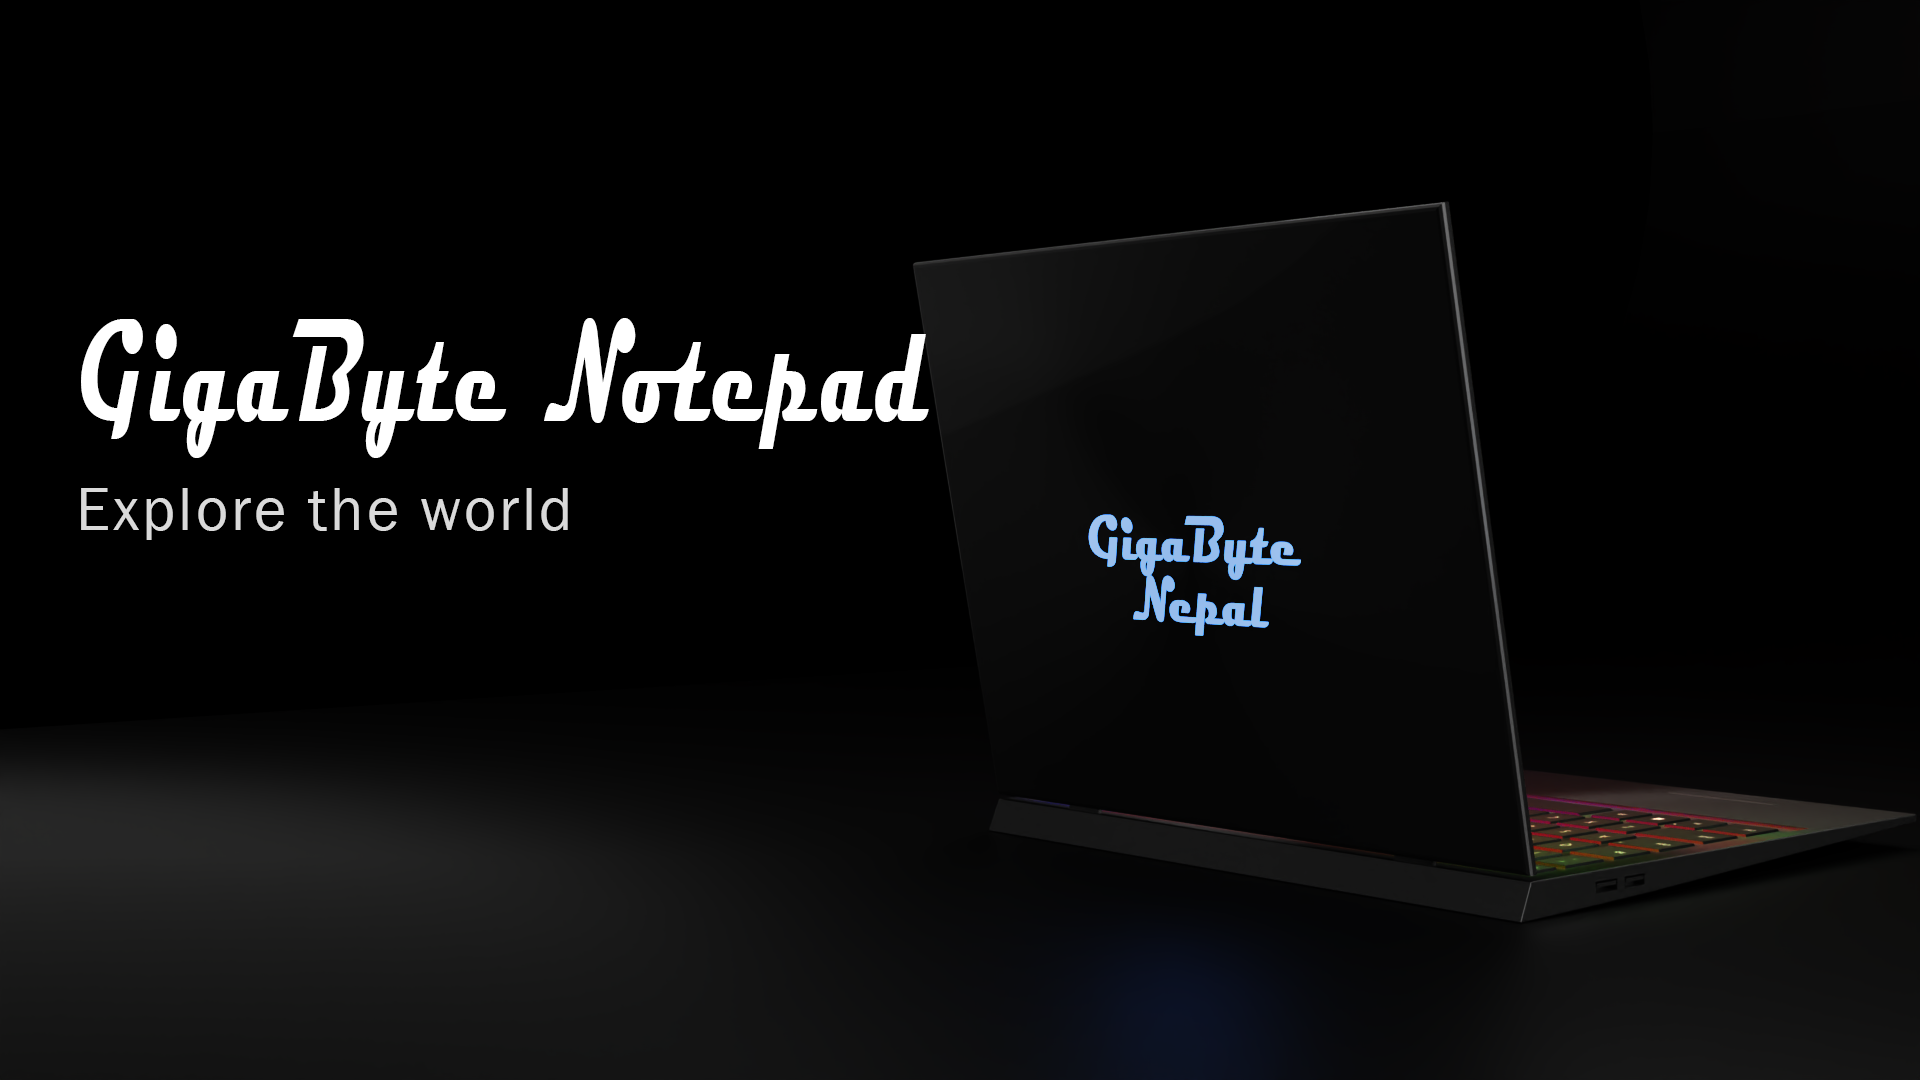
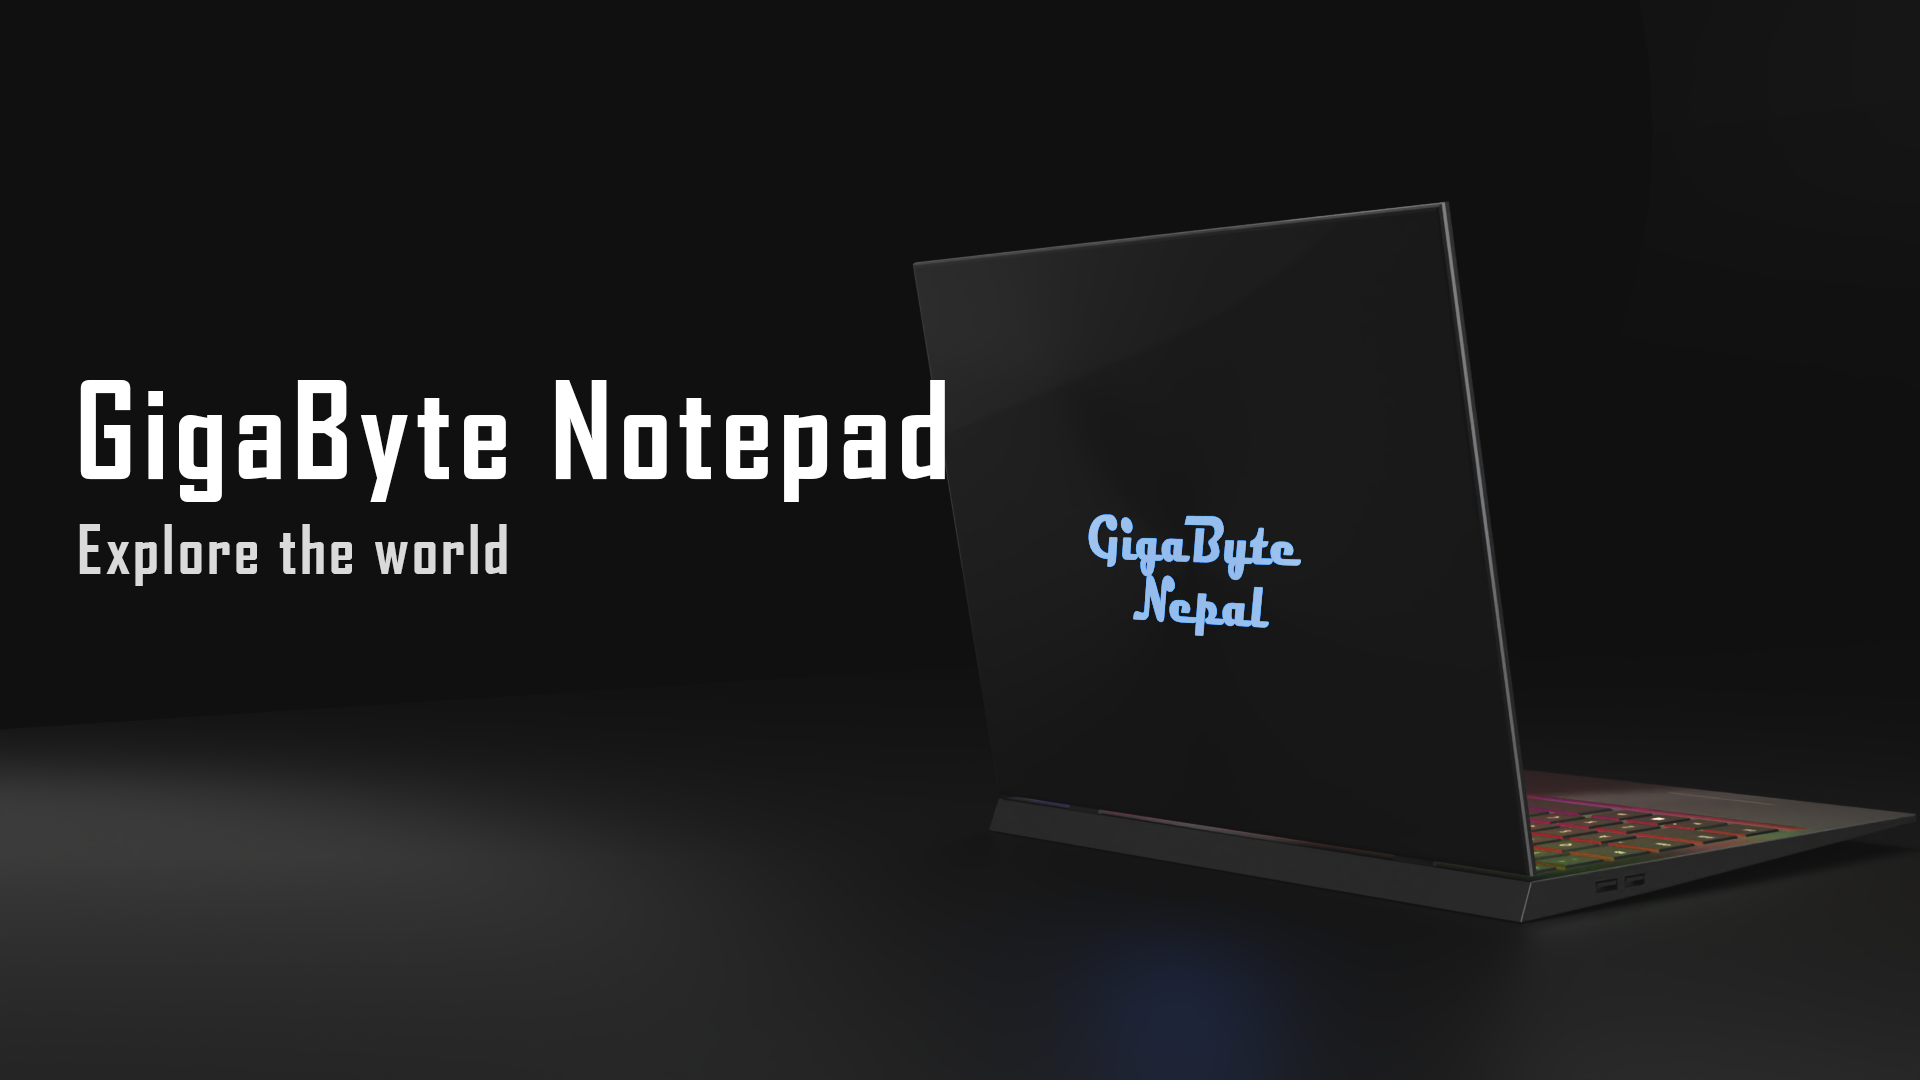
update

Changed region(s): [[0.0312, 0.275, 0.5, 0.55]]

diff --git a/styling/style.css b/styling/style.css
@@ -15,10 +15,17 @@ html{
 
 /*-----------NAV BAR STYLING----------*/
 .nav-bar{
-	background-color: #EEEEEE;
+	background-color: #FFF;
 	height: 70px;
 	position: relative;
 	z-index: 10;
+	position: fixed;
+	opacity: 80%;
+	box-shadow: rgba(0, 0, 0, 0.45) 0px 25px 20px -20px;
+}
+.nav-bar:hover{
+	transition: opacity 0.2s linear;
+	opacity: 100%;
 }
 .nav-conatiner{
 	width: 100vw;
@@ -130,6 +137,7 @@ html{
 	width: 500%;
 	margin: 0;
 	left: 0;
+	height: 100vh;
 }
 #slider figure img{
 	width:20%;
@@ -155,8 +163,8 @@ html{
 }
 .learn-more{
 	position: absolute;
- 	top: 58%;
- 	left: 18%;
+ 	top: 67%;
+ 	left: 14%;
  	transform: translate(-50%, -50%);
 }
 .learn-more a{
@@ -272,15 +280,22 @@ html{
 	padding-bottom: 20px ;
 	color: black;
 }
+.Fform {
+	display: grid;
+	grid-template-columns: repeat(2, auto);
+	padding: 0px;
+	margin: 0px;
+}
 .Fform input{
 	height: 40px;
-	width: 60%;
+	outline: none;
 }
 .Fbtn{
-	padding: 10px 20px; 
 	background-color: #AD081B;
 	border: none;
 	color: white;
+	font-size: 25px;
+	padding: 0px 10px;
 }
 /******************footer and links end***********************/
 

diff --git a/index.html b/index.html
@@ -10,7 +10,7 @@
 </head>
 <body style="background-color: #EEEEEE;">
 
-	<!-- navigation bar -->
+	<!------------- navigation bar --------------->
 	<nav class="nav-bar">
 		<div class="nav-conatiner">
 			<div class="web-logo">
@@ -27,7 +27,7 @@
 			</div>
 		</div>
 	</nav>
-	<!-- navigation bar ends -->
+	<!------------- navigation bar ends ------------>
 
 
 	<!----------- signup section ------->
@@ -200,7 +200,7 @@
 				<div class="Receive">
 					<div class="Fform">
 						<input type="email" required placeholder="example12@gmail.com">
-						<a href="#" class="Fbtn">Email</a>
+						<a href="#" class="Fbtn">&#x2709;</a>
 					</div>
 				</div>
 			</div>

diff --git a/pages/PurchaseProjector.html b/pages/PurchaseProjector.html
@@ -27,10 +27,10 @@
 			</div>
 			<div class="details">
 				<div class="title">
-					<h2>GigaByte FHD TV</h2>
+					<h2>GigaByte Projector</h2>
 					<ul>
-						<li>- 1920x1080 6.7" HDR Display</li>
-						<li>- Octa-core (6x1.8 GHz)</li>
+						<li>-  Native resolution:480*272 pixels</li>
+						<li>- 11.9cmx8.6cmx4.8cm (0.29kg)</li>
 						<li>- 128GB 6GB RAM</li>
 						<li>- 165.8 x 76.7 x 8.8 mm</li>
 						<li>- 64 MP, f/1.9</li>
